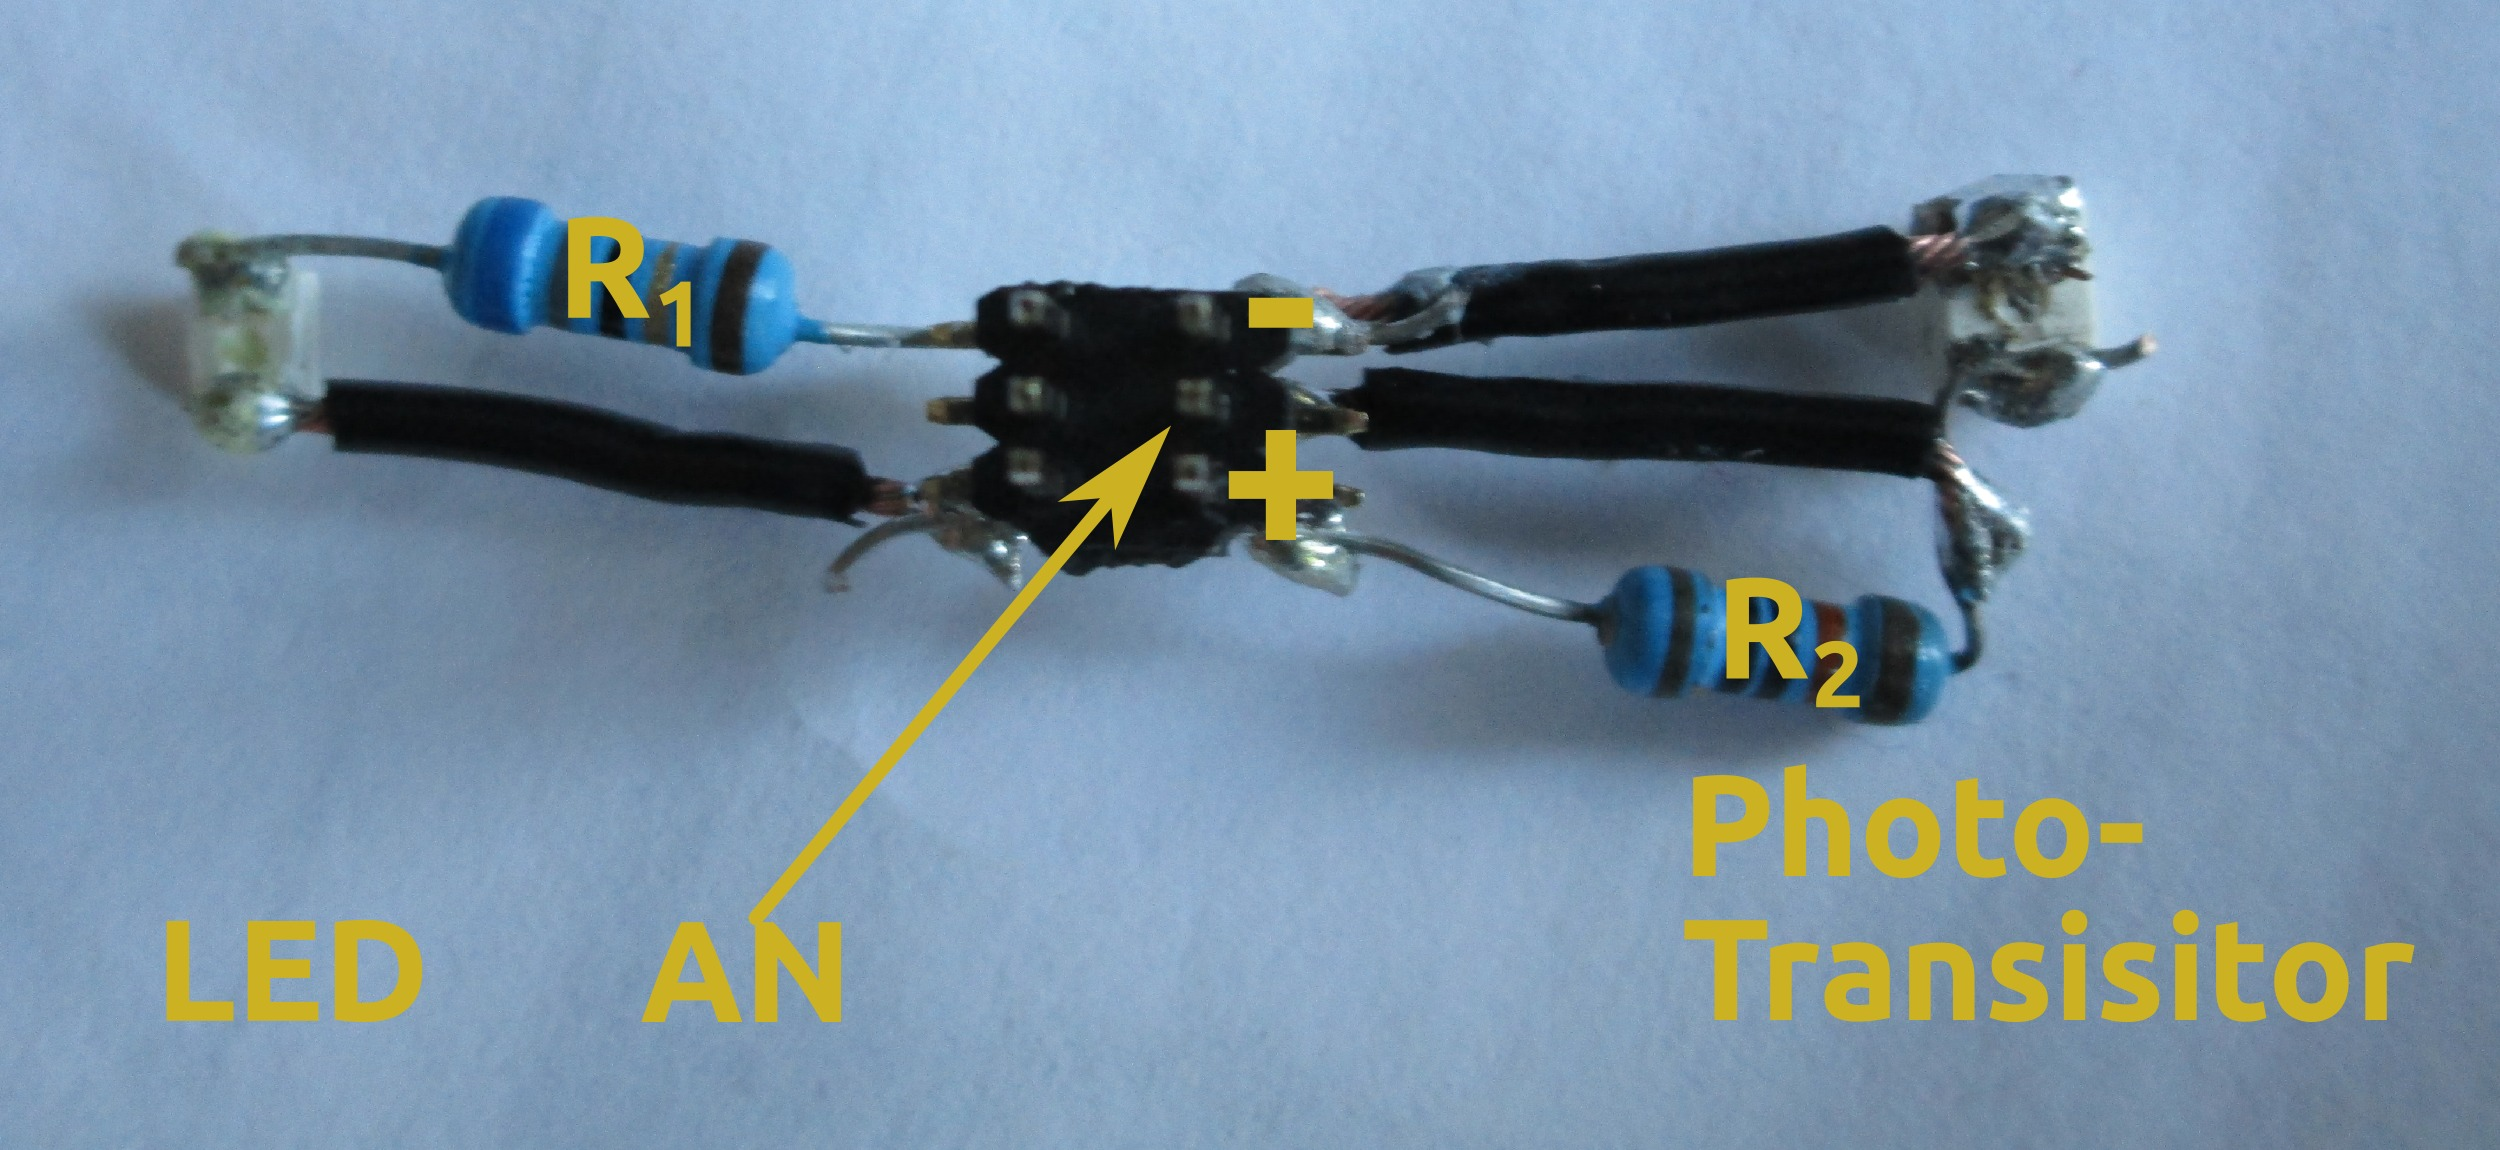
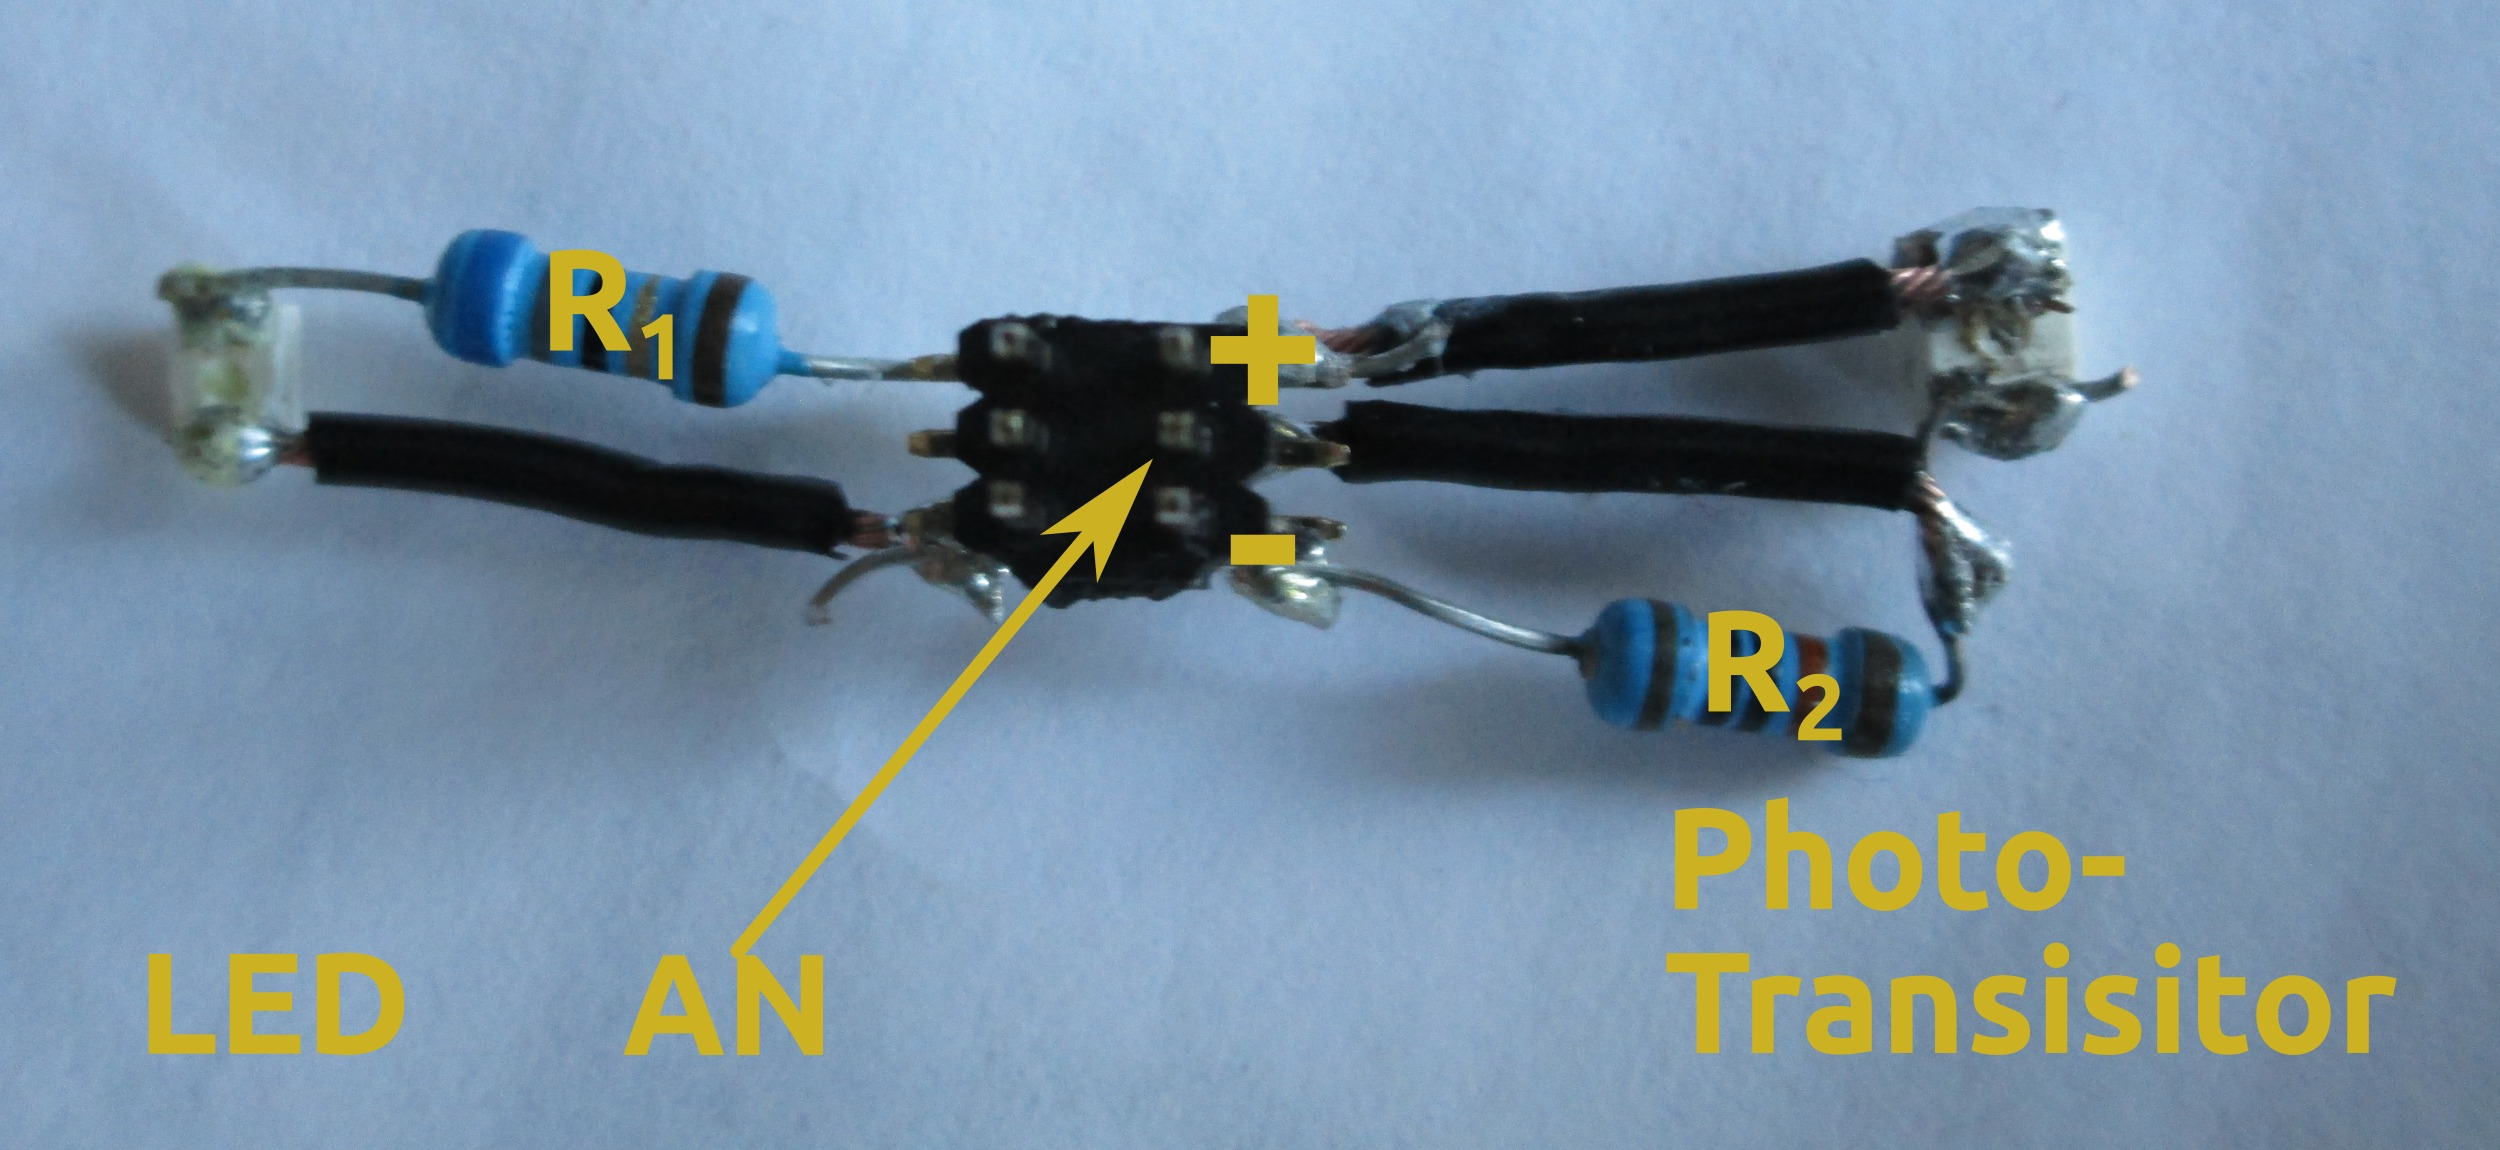
typos + reorgansin a bit... You are getting there Quentingit add protocols/

Changed region(s): [[0.0312, 0.1522, 0.9672, 0.9435], [0.0312, 0.7913, 0.1872, 0.9435], [0.0312, 0.4261, 0.0624, 0.4565]]

diff --git a/protocols/heart_monitor.md b/protocols/heart_monitor.md
@@ -7,20 +7,22 @@ This project describes an inexpensive and non-invasive device to monitor hear ra
 
 Project aim
 --------------------
-The aim of this project is to build a small device that can be carried by a garden snail *Helix aspersa* and would monitor its heart rate.
-When sending red light though the bottom of the shell, the moving heart of the snail can be observed.
+The aim of this project is to build a small device that can monitor a snail's heart rate and is small enough tu be carried by a garden snail (*Helix aspersa*).
+When sending red light though the bottom of the shell, the moving heart of the snail can be seen.
 From this observation, the goal is to fit a low power to red LED on one side of the shell whilst recording the intensity of the transmitted light, using a phototransistor, from the other side.
 
-In order to keep the device lightweight, thin wires will be used to convey analogue signal to an Arduino Uno. Then, the serial port will be used to communicate data to a computer which will diplay the signal in real time using an `python` script.
+In order to keep the device lightweight, thin wires will be used to convey analogue signal between the animal an Arduino Uno.
+Then, the serial port will be used to communicate data to a computer which will display the signal in real time using an `python` script.
 
-In order to save energy and reduce the heat genreated by the LED, this project will be power by a digital pin.
-This way, the circuit can be powered only shortly before reading from the analogue pin and turned off immediately after.
+In order to save energy and reduce the amount of heat generated by the LED, the circuit will be powered only shortly before recording data points, and turned off immediately after. 
+For this purpose, a digital pin of the Arduino will be used.
+
 
 Technique used
 -----------------------
 
 * Reading a phototransistor
-* Using a digital pin to drive power
+* Using a digital pin to drive circuit power
 * Oversampling signal to improve resolution of A/D conversion.
 * Real time data visualisation using `python` and `pyserial` and `pygame`
 
@@ -43,20 +45,17 @@ Materials
 
 @edwbaker -> you will probably want to change the links to your cloned/reorganised version here
 
-*The commercial references to the products I have been using can be found at (https://github.com/gilestrolab/snail_back_pack/blob/master/protocols/rs_numbers.md)*
+*The commercial references to some of the electronic components can be found at (https://github.com/gilestrolab/snail_back_pack/blob/master/protocols/rs_numbers.md)*
 
 Code Download
 -------------------------------
-
 @edwbaker same here
 * Arduino code (https://github.com/gilestrolab/snail_back_pack/blob/master/arduino_prototypes/sparse_phototransistor/sparse_phototransistor.ino)
 * Python code (https://github.com/gilestrolab/snail_back_pack/blob/master/scripts/serial_monitor.py)
 
 Supporting Materials
 -----------------------
-
 * Video of the protocol (http://dx.doi.org/10.6084/m9.figshare.1294198)
-
 
 Theory
 -------------------
@@ -98,29 +97,26 @@ We will use the leads of the resistors, and some wire, as a skeleton for our dev
 Therefore, we will wait until the end to cut them.
 Soldering the LED and the phototransistor can reveal challenging as both parts are very small.
 So, it is recommended to hold them firmly, for instance, using "helping hands".
-It is easy to forget that the **LED and PT should both face downward** as the light will be transmitted through the shell. 
+It is easy to forget that both **LED and PT should face downward** as the light will be transmitted through the shell. 
 
 
 The LED
 --------------
 
-1. Before starting, ensure you can tell cathode and anode of the LED apart. Most surface mounted LEDs will have an indication such as a small chip on the `+` side.
-2. Solder directly one leg of the 68Ω resistor to the anode of the LED.
+1. Before starting, ensure you can tell cathode and anode of the LED apart. Most "surface mounted LEDs" will have an indication such as a small chip on the `+` side.
+2. Solder directly one lead of the 68Ω resistor to the anode of the LED.
 3. Cut a short wire (1cm), strip and twist its tip.
 4. Solder one extremity of the wire to the cathode.
 
-The result should look like this:
 
-
-
-The Phototransistor
+The Phototransistor (PT)
 ---------------------------
 
-1. As for the LED, ensure you know the polarity of your component.
+1. As for the LED, ensure you know the polarity.
 2. Cut two short wires (1cm), strip and twist there tips.
-3. Solder one extremity of a wire to the anode.
-4. Solder directly one leg of the 68ohm resistor to the cathode. Leve some space between the anode and the resistor to solder the second wire.
-5. Solder the tip of the second wire onto the leg of the resistor, between the resistor and the phototransistor.
+3. Solder one extremity of a wire to the anode of the PT.
+4. Solder directly one lead of the 100kΩ resistor to the cathode. Leave some space between the anode and the resistor to solder the second wire.
+5. Solder the tip of the second wire onto the lead of the resistor; between the resistor and the PT.
 
 
 Assembling on the PCB header
@@ -129,45 +125,41 @@ Assembling on the PCB header
 1. We cut the PCB headed to leave only tree columns (i.e. 6pins). From a bottom-up view, let us label the pins:
 
 ```
-A ---   --- D
-B ---   --- E
-C ---   --- F
+A ---  -  --- D
+B ---     --- E
+C ---  +  --- F
 ```
 
 
-2. Solder the wire connected to the LED light on A
-3. Solder the leg of the resistor connected to the LED on C **and F**.
-4. Solder the wire connected the anode of the phototransistor to F
-5. Solder the leg of the resistor connected to the phototransistor on A **and D**.
-6. Solder the second wire of the phototransistor on E.
+2. Solder the wire connected to the LED light on A. That is on the `-` side.
+3. Solder the lead of the resistor connected to the LED on C **and F** (i.e. `+` side).
+4. Solder the wire connected the anode of the PT to F.
+5. Solder the leg of the resistor connected to the PT on A **and D**.
+6. Solder the second wire of the PT on E.
 
 Lead
 --------------------------------------------------
 
-1. Strip the tips of three long (>30cm) flexible and thin  wires.
+1. Strip the tips of three long (>30cm) flexible and thin wires.
 2. Cut three columns of the PCB socket.
 3. Solder each wire to a different pin of the PCB header.
-4. Plug the PCB socket on the pins D,E,F of the PCB header.
-5. Unsure you can tell which wire is for ground (pin D), and + (F).
-
-
+4. Plug the PCB socket on the pins `D`, `E` and `F` of the PCB header.
+5. Unsure you can tell which wire is for ground (pin `D`) and and which is for `+` (`F`).
 
 Arduino
 -------------------
 
-1. Plug the + wire on digital pin 13 — or 5v if you want constant light (see 'Fitting the Circuit' section below).
+1. Plug the `+` wire on digital pin 13 — or 5v if you want constant light (see 'Fitting the Circuit' section below).
 2. Plug the ground wire on ground.
 3. Plug the middle wire on analogue in 1.
-4. Upload the code for this project to the Arduino.
+4. Compile and upload the code for this project to the Arduino.
 5. The LED light should start blinking quickly.
-
-
-
 
 Fitting the Circuit
 --------------------------------------------------
+
 This is probably the hardest part of the process.
-For this reason, a 4min online video demonstrates this part of the protocol step by step (see 'Supporting Material' section above).
+For this reason, a 4min online video demonstrating this part of the protocol step by step is available online (see 'Supporting Material' section above).
 
 The main steps are:
 
@@ -181,7 +173,7 @@ The main steps are:
 6. When the signal is satisfying (sharp oscillations of large amplitude), glue PT and LED to the shell.
 7. Unplug the circuit, interrupt the `python` program, and wait for the glue to dry.
 8. Plug the circuit. This time, **use the analogue pin** as opposed to the 5v.
-9. Run the `python` program. In addition to simply disply heart rate, the data can be saved to a text file using the `--out` option  (see section '???' below).  
+9. Run the `python` program. In addition to simply disply heart rate, the data can be saved to a text file using the `--out` option  (see section 'Python Code Complementary' below).  
 
 **Important Notes:**
 
@@ -223,7 +215,7 @@ Importantly, `python2`, not `python3`.
     For instance, `--out /WHERE/TO/SAVE/THE/data.txt` can be useful.
 
 
-If you are interested in understanding or adapting this python script, exhaustive explanation are provided, as comments. within the source code. 
+If you are interested in understanding or adapting this python script, explanations are provided, as comments, within the source code. 
 
 
 Example of Result
@@ -235,7 +227,10 @@ This is an example of approximately one minute of real data, sampled at 10Hz:
 The corresponding power spectrum indicate a main frequency around 0.75Hz which is 45 beats per minute:
 ![power spectrum](./img/power_spectrum.png)
 
+Next steps
+------------------------------
 
+TODO
 
 
 
